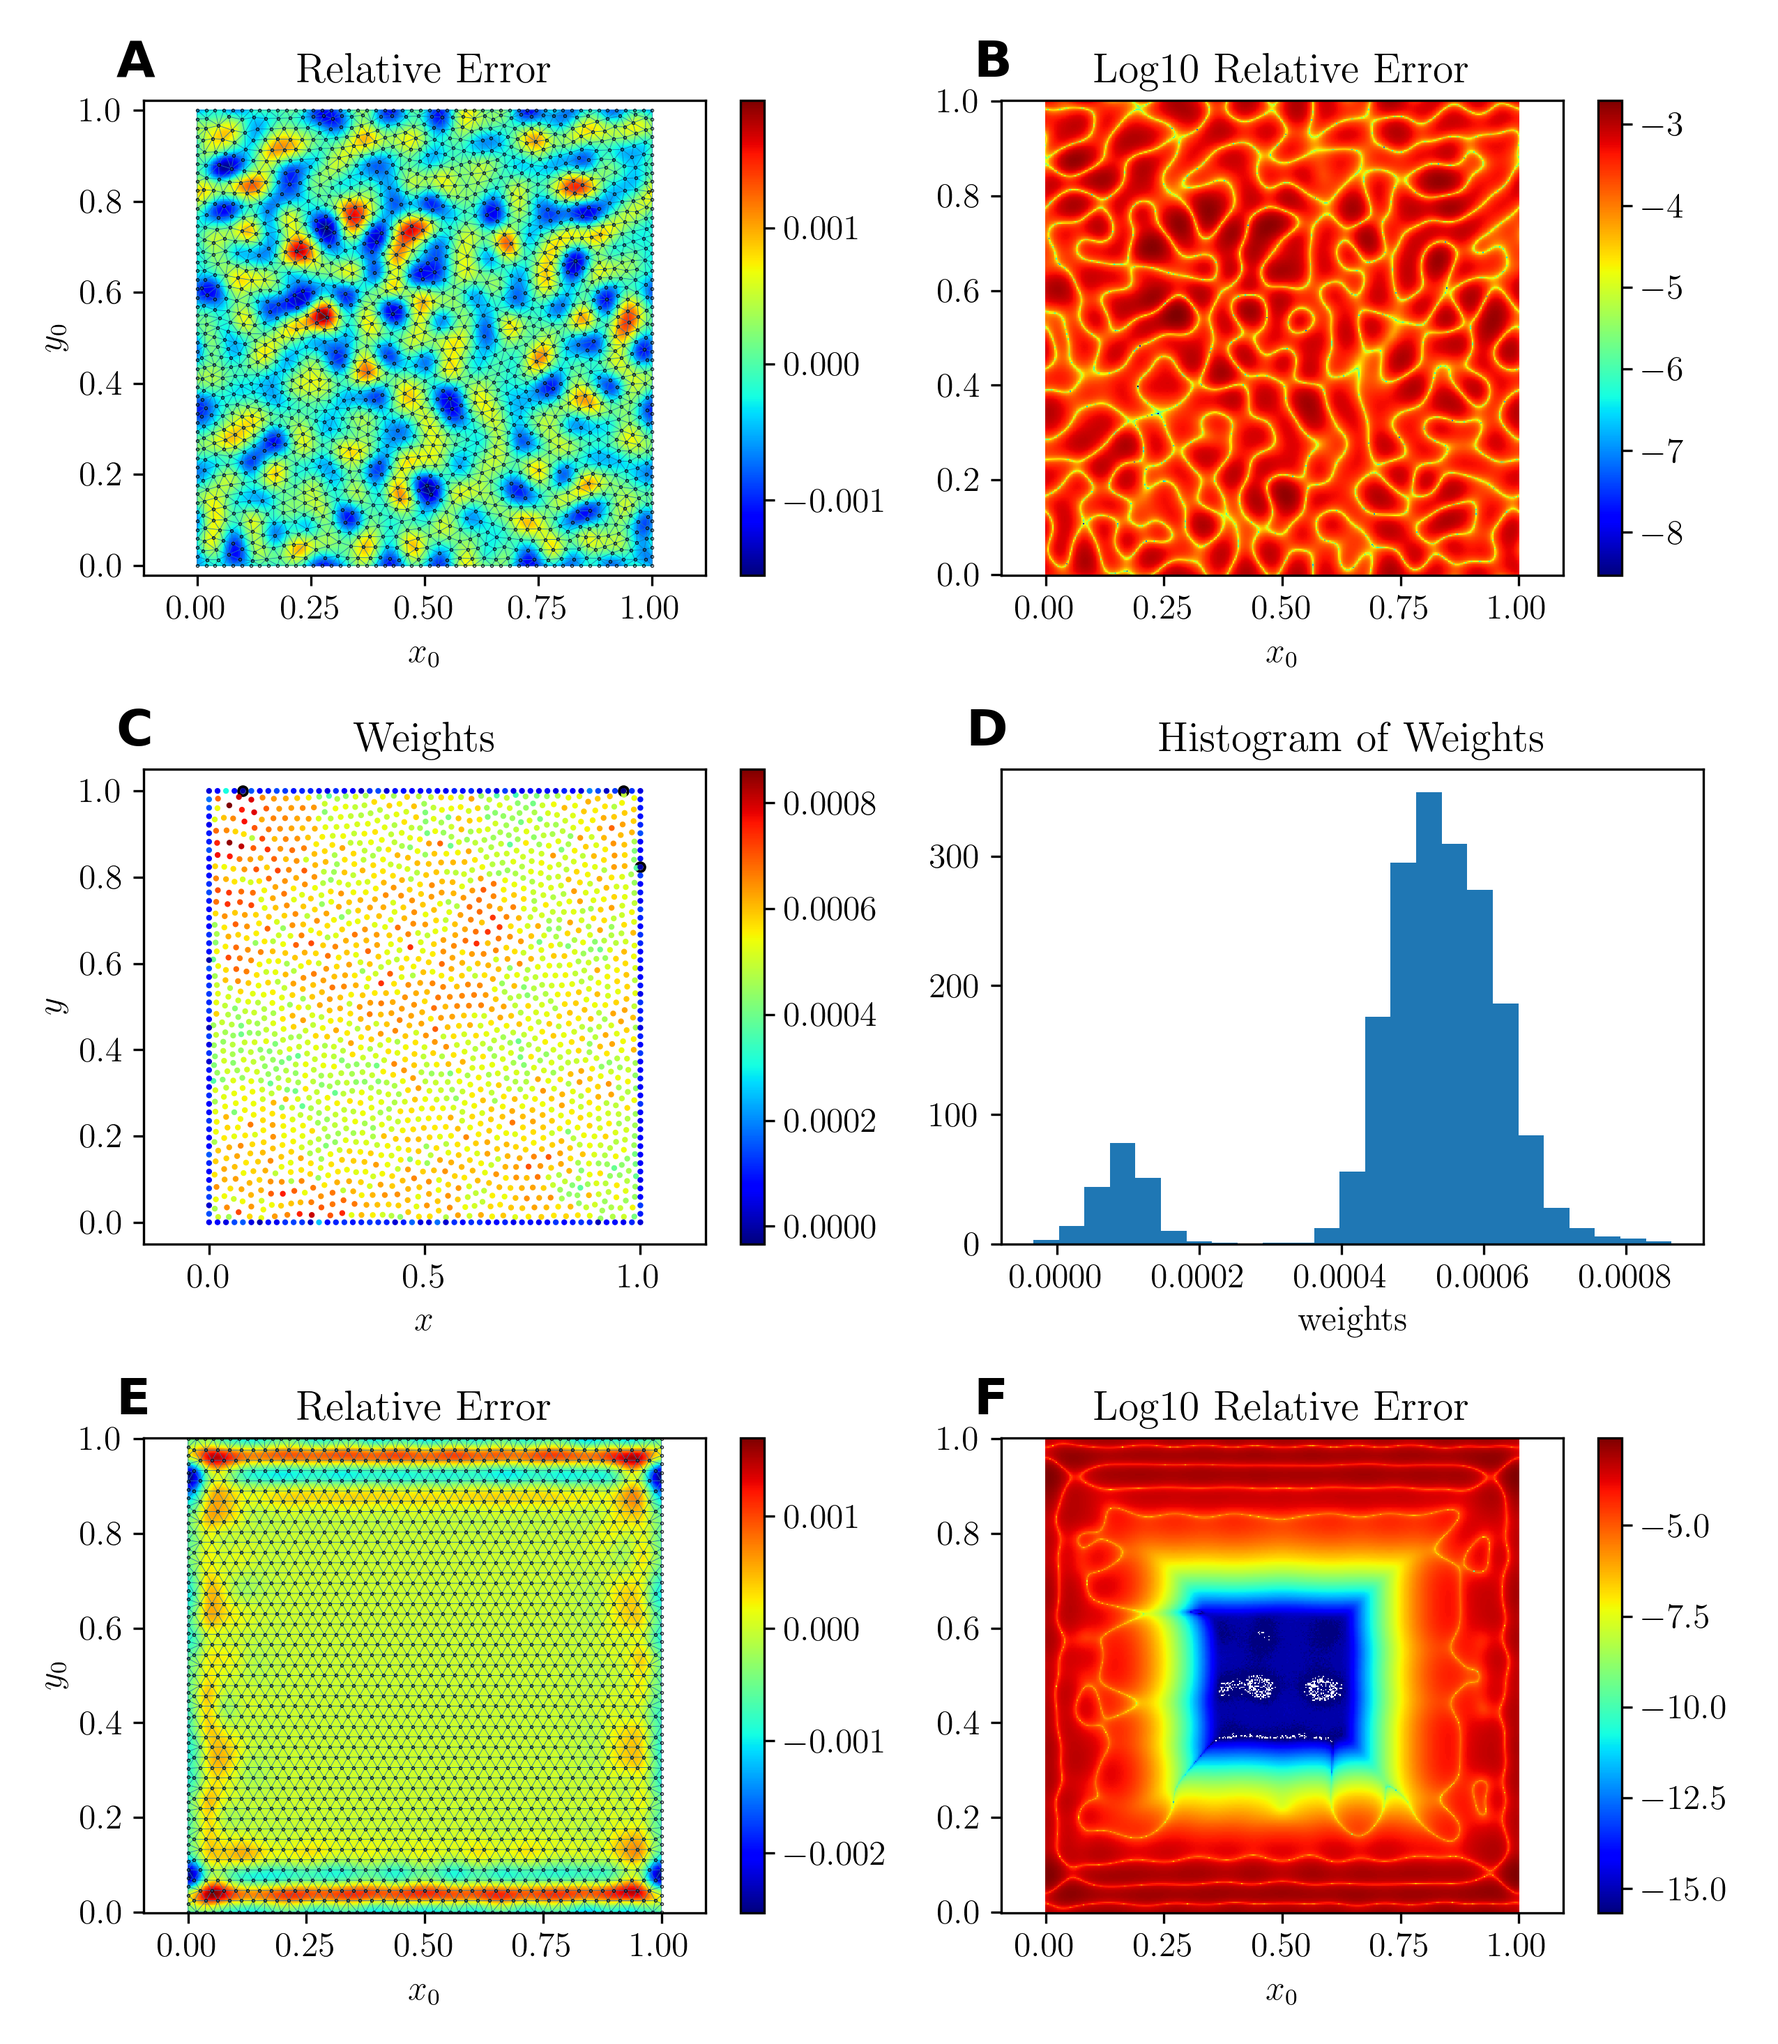
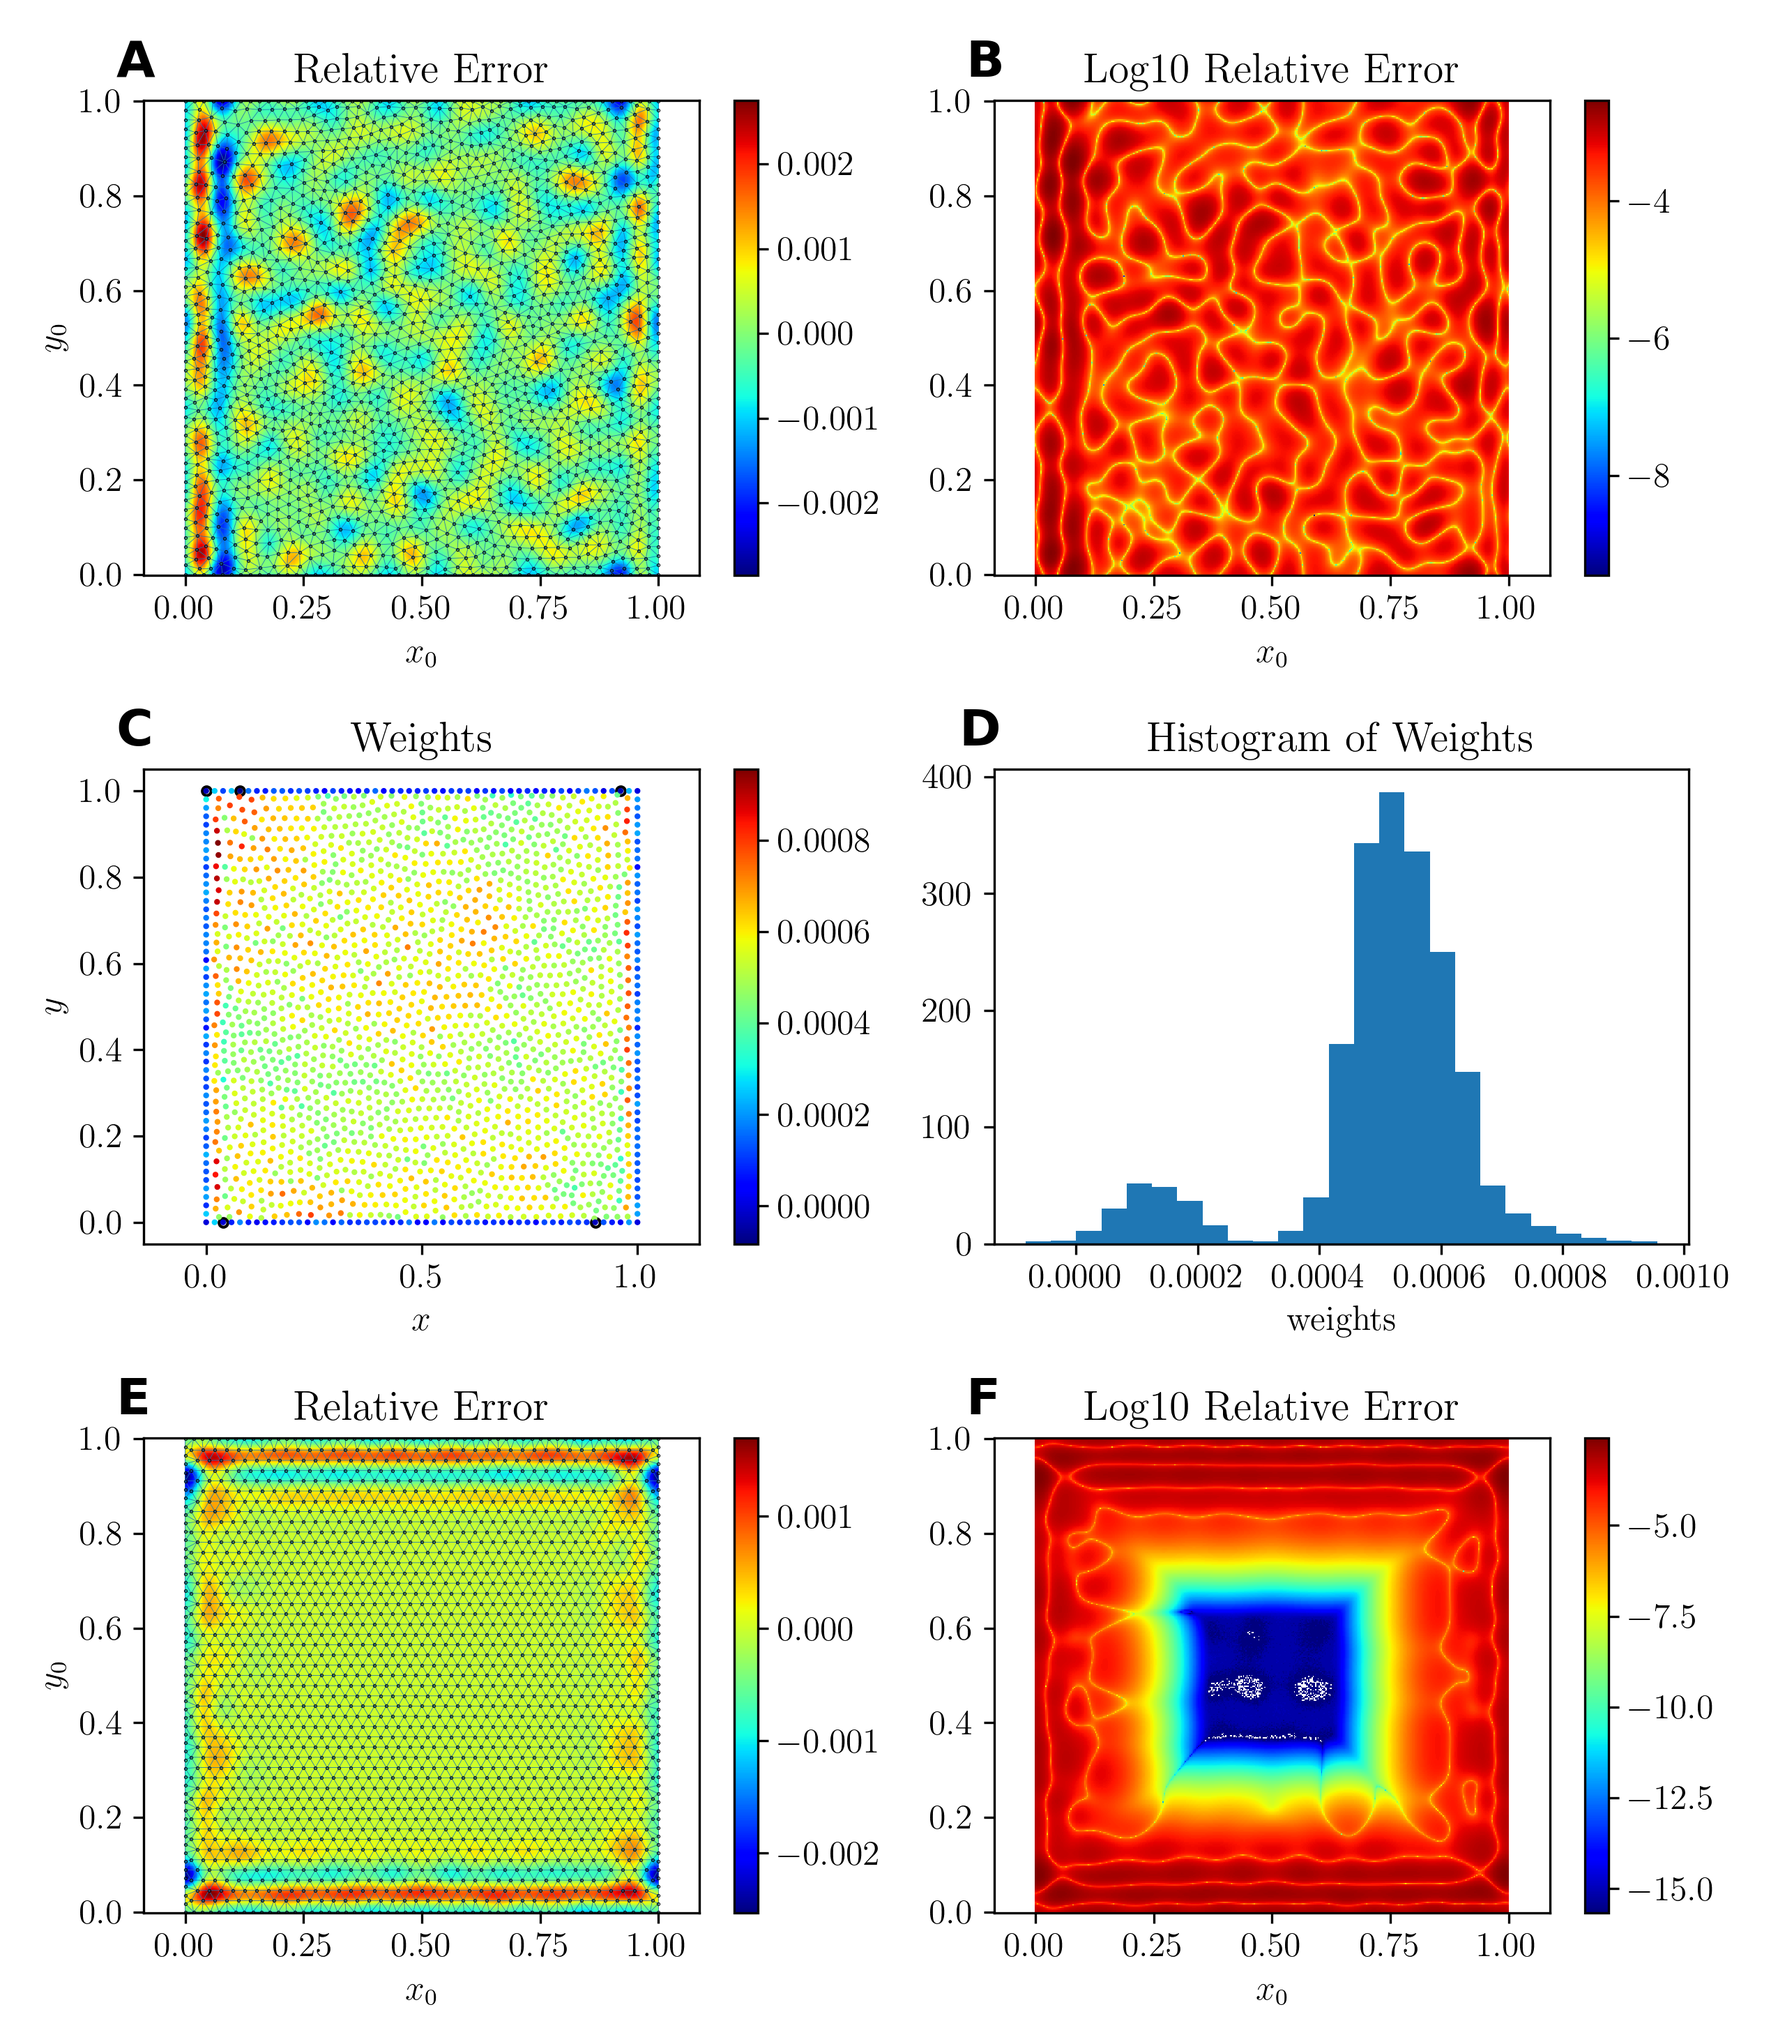
preparing to make significant changes to figure

diff --git a/figures/flat_quad_space.py b/figures/flat_quad_space.py
@@ -42,7 +42,14 @@ X, Y = np.meshgrid(np.linspace(0, 1, sample_density), np.linspace(0, 1, sample_d
 
 print("Generating random points.")
 np.random.seed(0)
-rand_points = UnitSquare(n, verbose=True).points
+unit_square = UnitSquare(n, verbose=True, edge_cluster=False)
+# cluster top and bottom edges
+shift_points = unit_square.inner[:, 1] - 0.5  # just the y
+edge_distance = 0.5 - np.max(np.abs(shift_points))
+factor = (0.5 - edge_distance / 2) / (0.5 - edge_distance)
+unit_square.inner[:, 1] = shift_points * factor + 0.5
+rand_points = unit_square.points
+
 print("Computing random point quadrature.")
 qf_rand = LocalQuad(rand_points, rbf, poly_deg, stencil_size, verbose=True)
 print("Computing random point spatial error.")
@@ -61,6 +68,9 @@ print(f"max_error={np.max(np.abs(err_hex)):.3E}")
 # Figure
 #
 #############
+
+# Panel A
+
 
 print("Generating Figure.")
 figsize = (8.5, 11)
